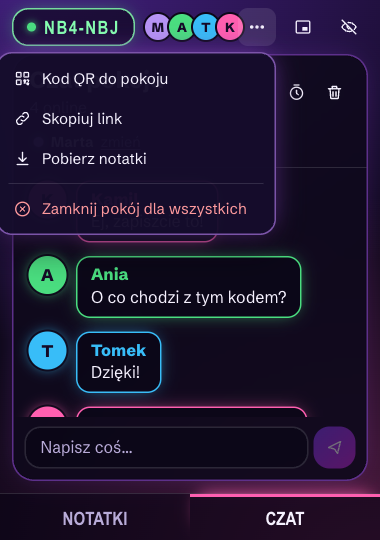
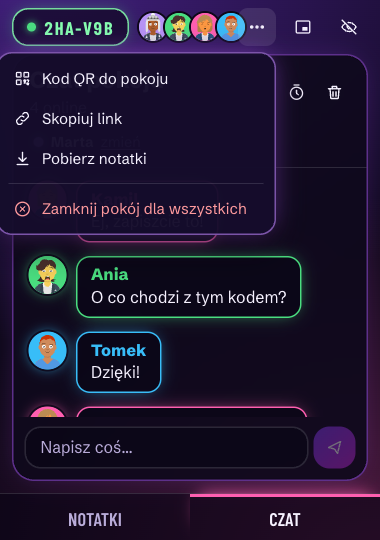
Czcionka Barlow Condensed i ilustrowane awatary (lokalnie, bez zewnętrznych zapytań)
- Barlow Condensed (OFL) przez @fontsource, tylko latin i latin-ext, wagi 500-800
- awatary: @dicebear/core@9 + styl Avataaars generowane w przeglądarce, osobny
  leniwy fragment, data URI w <img> (CSP bez zmian), inicjał jako zapas
- stałe ziarno twarzy (face) w tożsamości, przesyłane w awarenessie i wiadomościach
- nowe zrzuty ekranu, DESIGN.md, README PL/EN z podziękowaniami, CLAUDE.md, Prywatność

diff --git a/src/Room.tsx b/src/Room.tsx
@@ -14,10 +14,12 @@ import {
   IcBack, IcBullets, IcClose, IcCode, IcCodeBlock, IcDownload, IcHide, IcLink, IcMini, IcOrdered, IcQr, IcRedo, IcSend, IcStrike, IcTimer, IcTrash, IcUnderline, IcUndo,
 } from './icons'
 import { SideCards } from './Side'
+import { Avatar } from './Avatar'
 import { CloseRoomDialog, MenuItem, QrDialog, RoomMenu } from './RoomMenu'
 
 type Conn = { ydoc: Y.Doc; provider: WebsocketProvider }
-type ChatMsg = { id: string; by: number; name: string; color: string; text: string; t: number }
+type ChatMsg = { id: string; by: number; name: string; color: string; face?: string; text: string; t: number }
+type Peer = { id: number; name: string; color: string; face?: string }
 type Status = 'connecting' | 'connected' | 'disconnected'
 
 const EPHEMERAL_MS = 10 * 60_000
@@ -195,7 +197,7 @@ function Workspace(props: {
   const [dialog, setDialog] = useState<null | 'qr' | 'close'>(null)
   const [closing, setClosing] = useState(false)
   const [lost, setLost] = useState(false)
-  const [peers, setPeers] = useState<{ id: number; name: string; color: string }[]>([])
+  const [peers, setPeers] = useState<Peer[]>([])
   const [msgs, setMsgs] = useState<ChatMsg[]>([])
   const [ephemeral, setEphemeral] = useState(false)
   const [now, setNow] = useState(Date.now())
@@ -243,8 +245,8 @@ function Workspace(props: {
     provider.on('status', onStatus)
     const aw = provider.awareness
     const onAw = () => {
-      const list: { id: number; name: string; color: string }[] = []
-      aw.getStates().forEach((s, id) => s.user && list.push({ id, name: s.user.name, color: s.user.color }))
+      const list: Peer[] = []
+      aw.getStates().forEach((s, id) => s.user && list.push({ id, name: s.user.name, color: s.user.color, face: s.user.face }))
       list.sort((a, b) => (a.id === ydoc.clientID ? -1 : b.id === ydoc.clientID ? 1 : a.id - b.id))
       setPeers(list)
     }
@@ -381,7 +383,7 @@ function Workspace(props: {
   }, [editor, hidden, expired])
 
   function send(text: string) {
-    chat.push([{ id: crypto.randomUUID(), by: ydoc.clientID, name: identity.name, color: identity.color, text, t: Date.now() }])
+    chat.push([{ id: crypto.randomUUID(), by: ydoc.clientID, name: identity.name, color: identity.color, face: identity.face, text, t: Date.now() }])
     if (chat.length > MAX_MSGS) chat.delete(0, chat.length - MAX_MSGS)
   }
 
@@ -466,7 +468,7 @@ function Workspace(props: {
             <div className="avatars" aria-label={`W pokoju: ${peers.length}`}>
               {shown.map((p) => (
                 <span key={p.id} className="avatar" style={{ '--c': p.color } as CSSProperties} title={p.name}>
-                  {p.name.charAt(0).toUpperCase()}
+                  <Avatar seed={p.face ?? p.name} color={p.color} name={p.name} size={30} />
                 </span>
               ))}
               {more > 0 && <span className="avatar avatar-more">+{more}</span>}
@@ -685,7 +687,7 @@ function ChatList({ msgs, me }: { msgs: ChatMsg[]; me: number }) {
       {msgs.map((m) => (
         <div key={m.id} className={`msg ${m.by === me ? 'mine' : ''}`} style={{ '--c': m.color } as CSSProperties}>
           <span className="msg-avatar" aria-hidden="true">
-            {m.name.charAt(0).toUpperCase()}
+            <Avatar seed={m.face ?? m.name} color={m.color} name={m.name} size={38} />
           </span>
           <div className="msg-bubble">
             <span className="msg-name">{m.name}</span>

diff --git a/src/Avatar.tsx b/src/Avatar.tsx
@@ -1,0 +1,51 @@
+// Ilustrowany awatar generowany LOKALNIE w przeglądarce (DiceBear + styl Avataaars, autor: Pablo Stanley).
+// Zero zapytań do zewnętrznych serwisów: obraz powstaje z kodu pakietu i trafia do <img> jako data URI.
+import { useEffect, useState } from 'react'
+
+type Make = (seed: string, color: string) => string
+
+let maker: Promise<Make> | null = null
+const cache = new Map<string, string>()
+
+// biblioteka i styl ładują się leniwie, przy pierwszym awatarze (osobny fragment, poza głównym kodem pokoju)
+function load(): Promise<Make> {
+  maker ??= Promise.all([import('@dicebear/core'), import('@dicebear/avataaars')]).then(([core, style]) => (seed, color) =>
+    core
+      .createAvatar(style as any, { seed, backgroundColor: [color.replace('#', '')], radius: 50 })
+      .toDataUri(),
+  )
+  return maker
+}
+
+export function Avatar({ seed, color, name, size }: { seed: string; color: string; name: string; size: number }) {
+  const key = `${seed}|${color}`
+  const [uri, setUri] = useState(() => cache.get(key) ?? '')
+
+  useEffect(() => {
+    const hit = cache.get(key)
+    if (hit) {
+      setUri(hit)
+      return
+    }
+    let off = false
+    load()
+      .then((make) => {
+        const u = make(seed, color)
+        cache.set(key, u)
+        if (!off) setUri(u)
+      })
+      .catch(() => {})
+    return () => {
+      off = true
+    }
+  }, [key, seed, color])
+
+  // zanim obrazek się wygeneruje (albo gdy się nie uda), zostaje inicjał na kolorowym kółku
+  return uri ? (
+    <img className="face" src={uri} width={size} height={size} alt="" />
+  ) : (
+    <span className="face initial" aria-hidden="true">
+      {name.charAt(0).toUpperCase()}
+    </span>
+  )
+}

diff --git a/src/identity.ts b/src/identity.ts
@@ -2,7 +2,10 @@ const NAMES = ['Sowa', 'Lis', 'Jeż', 'Bóbr', 'Wydra', 'Kruk', 'Żuraw', 'Rys',
 // Jasne neony: ciemny tekst (#140a26) na nich ma kontrast >= 6,8 : 1, a one same na ciemnym panelu >= 7 : 1.
 const COLORS = ['#FF5FB0', '#4ADE80', '#38BDF8', '#FFA94D', '#B794F6', '#FACC15', '#FB7185', '#5EEAD4']
 
-export type Identity = { name: string; color: string }
+// `face` to ziarno awatara: stałe przez całą kartę, więc zmiana pseudonimu nie zmienia twarzy.
+export type Identity = { name: string; color: string; face: string }
+
+const newFace = () => Math.random().toString(36).slice(2, 10)
 
 const KEY = 'notas-tozsamosc'
 
@@ -16,10 +19,16 @@ export function loadIdentity(): Identity {
     const raw = sessionStorage.getItem(KEY)
     if (raw) {
       const v = JSON.parse(raw)
-      if (v?.name && v?.color) return v
+      if (v?.name && v?.color) {
+        if (!v.face) {
+          v.face = newFace()
+          saveIdentity(v)
+        }
+        return v
+      }
     }
   } catch {}
-  const id = { name: `${pick(NAMES)} ${Math.floor(Math.random() * 90) + 10}`, color: pick(COLORS) }
+  const id = { name: `${pick(NAMES)} ${Math.floor(Math.random() * 90) + 10}`, color: pick(COLORS), face: newFace() }
   saveIdentity(id)
   return id
 }

diff --git a/src/styles.css b/src/styles.css
@@ -248,10 +248,12 @@ a { color: var(--cyan-300); }
 .dot.disconnected { background: var(--danger); box-shadow: 0 0 8px var(--danger); }
 .avatars { display: flex; padding-left: 6px; min-width: 0; }
 .avatar {
-  width: 30px; height: 30px; border-radius: 50%; margin-left: -6px; border: 2px solid var(--night-900); background: var(--c, var(--violet-500));
+  width: 32px; height: 32px; border-radius: 50%; margin-left: -6px; border: 2px solid var(--night-900); background: var(--c, var(--violet-500)); overflow: hidden;
   display: grid; place-items: center; color: #140a26; font-size: 0.82rem; font-weight: 800; flex: none;
 }
 .avatar-more { background: #3a2c63; color: var(--ink); }
+.face { display: grid; place-items: center; width: 100%; height: 100%; border-radius: 50%; object-fit: cover; }
+.face.initial { font-weight: 800; }
 .offline { margin: 0 0.75rem; padding: 0.45rem 0.9rem; border-radius: var(--r-sm); background: var(--danger); color: #1c0508; font-size: 0.9rem; font-weight: 600; }
 .offline.expired { display: flex; align-items: center; gap: 0.75rem; flex-wrap: wrap; }
 .offline.expired span { flex: 1; min-width: 12rem; }

diff --git a/src/main.tsx b/src/main.tsx
@@ -1,6 +1,14 @@
 import { StrictMode } from 'react'
 import { createRoot } from 'react-dom/client'
 import '@fontsource-variable/schibsted-grotesk'
+import '@fontsource/barlow-condensed/latin-500.css'
+import '@fontsource/barlow-condensed/latin-ext-500.css'
+import '@fontsource/barlow-condensed/latin-600.css'
+import '@fontsource/barlow-condensed/latin-ext-600.css'
+import '@fontsource/barlow-condensed/latin-700.css'
+import '@fontsource/barlow-condensed/latin-ext-700.css'
+import '@fontsource/barlow-condensed/latin-800.css'
+import '@fontsource/barlow-condensed/latin-ext-800.css'
 import './styles.css'
 import App from './App'
 

diff --git a/src/Privacy.tsx b/src/Privacy.tsx
@@ -54,7 +54,7 @@ export default function Privacy() {
       <h2>Czego nie robimy</h2>
       <p>
         Nie sprzedajemy danych, nie profilujemy, nie wysyłamy niczego do stron trzecich. Czcionki są hostowane razem
-        z aplikacją.
+        z aplikacją, a awatary powstają w Twojej przeglądarce, bez zapytań do zewnętrznych serwisów.
       </p>
 
       <h2>Kontakt</h2>

diff --git a/DESIGN.md b/DESIGN.md
@@ -72,9 +72,9 @@ obwódki i imienia w dymku czatu (kolor na ciemnym panelu ≥ 7 : 1).
 
 ## 2. Typografia
 
-- **Nagłówki i etykiety:** `--font-display`, wąski krój w WERSALIKACH (`Barlow Condensed` → `Roboto Condensed` →
-  `Arial Narrow` → systemowy wąski). **Stan: Barlow Condensed nie jest jeszcze dołączony do projektu** (czeka na zgodę
-  na pobranie); do tego czasu działa systemowy krój wąski.
+- **Nagłówki i etykiety:** `--font-display`, wąski krój w WERSALIKACH: **Barlow Condensed** (wagi 500–800, podzbiory
+  `latin` i `latin-ext`, licencja OFL, hostowany lokalnie przez `@fontsource`), a awaryjnie `Roboto Condensed` →
+  `Arial Narrow` → systemowy wąski. Importy w `src/main.tsx`; nie dodawaj innych podzbiorów ani wag bez potrzeby.
 - **Tekst, czat, notatki:** Schibsted Grotesk (hostowany lokalnie, `latin-ext`).
 - **Kod:** `--font-mono` (systemowy).
 - **Logo:** Schibsted Grotesk 800 kursywą, gradient `#FFF → #B8F3FF → #CFB0FF → #F0A1FF` w tekście
@@ -121,6 +121,10 @@ obwódki i imienia w dymku czatu (kolor na ciemnym panelu ≥ 7 : 1).
 - **Edytor:** ciemny panel; `mark` limonkowy, kod w tekście i bloki kodu zielone na prawie czarnym, punktory różowe.
 - **Czat:** nagłówek „Czat pokoju” + liczba osób online; wiadomość = awatar (inicjał) + dymek z obwódką i poświatą
   w kolorze osoby, imię wewnątrz dymka. Własne wiadomości mają przy imieniu „(Ty)”.
+- **Awatary:** ilustrowane twarze (DiceBear, styl Avataaars, autor Pablo Stanley), generowane **lokalnie w przeglądarce**
+  (`src/Avatar.tsx`, osobny leniwy fragment), z tłem w kolorze osoby. Ziarno to `face` z tożsamości (stałe w karcie, więc
+  zmiana pseudonimu nie zmienia twarzy). Do chwili wygenerowania, albo gdy się nie uda, jest inicjał na kolorowym kółku.
+  Obraz trafia do `<img>` jako data URI (CSP: `img-src ... data:`), zero zapytań do zewnętrznych serwisów.
 - **Etykieta kursora:** pigułka w kolorze osoby z ciemnym tekstem.
 - **QR:** gradient fioletowo-różowy (`#5B21B6 → #BE185D`) na **białej** karcie. Ciemne moduły na jasnym tle czytają
   się niezawodnie; odwrócony QR (jasny na ciemnym) nie jest czytany przez każdy skaner.
@@ -159,7 +163,8 @@ w pętli, parallax, migotanie, animacje przy przewijaniu.
 - ❌ Odwróconego (jasny na ciemnym) kodu QR.
 - ❌ Animowania `filter` i `box-shadow` w nieskończonej pętli.
 - ❌ Destrukcyjnej akcji bez okna potwierdzenia i możliwości pobrania notatek przed nią.
-- ❌ Zewnętrznych obrazów i czcionek pobieranych bez zgody (patrz „Typografia”).
+- ❌ Zewnętrznych obrazów i czcionek pobieranych bez zgody. Awatary i czcionki są **lokalne**; nie wolno przepiąć awatarów
+  na API DiceBear (zapytania do obcego serwisu łamią obietnicę prywatności).
 
 ---
 

diff --git a/README.pl.md b/README.pl.md
@@ -95,7 +95,7 @@ Pokazujesz ekran, wszyscy skanują. Kod jest fioletowo-różowy na białej karci
 - **Licznik nieprzeczytanych** na zakładce Czat, gdy okno jest wąskie
 
 ### Pseudonimy
-- **Losowy pseudonim** dla każdego (`Kruk 38`, `Wydra 12`), kolor i inicjał
+- **Losowy pseudonim** dla każdego (`Kruk 38`, `Wydra 12`), kolor i ilustrowany awatar generowany lokalnie w Twojej przeglądarce (bez zapytań do jakiegokolwiek serwisu z awatarami)
 - **Zmiana jednym kliknięciem** - pole przypomina, żeby nie używać imienia i nazwiska
 - **Nic nie jest zapamiętywane** - pseudonim żyje w karcie przeglądarki i razem z nią znika
 
@@ -130,7 +130,8 @@ Pokazujesz ekran, wszyscy skanują. Kod jest fioletowo-różowy na białej karci
 | Serwer | Node.js 22, zwykły `http` + [`ws`](https://github.com/websockets/ws), bez frameworka |
 | Kod QR | [`qrcode`](https://github.com/soldair/node-qrcode) (SVG, ładowany dopiero przy otwarciu okna) |
 | Style | Ręcznie pisany CSS - tokeny, container queries, bez frameworka |
-| Fonty | Schibsted Grotesk (hostowany lokalnie przez Fontsource) |
+| Fonty | Schibsted Grotesk i Barlow Condensed (hostowane lokalnie przez Fontsource) |
+| Awatary | [DiceBear](https://www.dicebear.com/) (rdzeń) + styl Avataaars, generowane lokalnie w przeglądarce |
 | Testy | `node:test` (20 testów, każdy zestaw uruchamia prawdziwy proces serwera) |
 | CI | GitHub Actions (typy + testy) |
 | Wdrożenie | Docker; Render Blueprint (`render.yaml`) albo Fly.io (`fly.toml`) |
@@ -243,6 +244,11 @@ serwera** na wolnym porcie i rozmawia z nim przez HTTP i WebSockety, więc testo
 |---|---|
 | **iOS** | Safari → Udostępnij (↑) → *Do ekranu początkowego* |
 | **Android** | Chrome → Menu (⋮) → *Zainstaluj aplikację* |
+
+## Podziękowania
+
+- Awatary: [DiceBear](https://www.dicebear.com/) (MIT) ze stylem *Avataaars* autorstwa [Pablo Stanleya](https://avataaars.com/) (wolny do użytku osobistego i komercyjnego).
+- Czcionka: [Barlow Condensed](https://github.com/jpt/barlow) Jeremy'ego Tribby'ego (SIL Open Font License 1.1) oraz Schibsted Grotesk (OFL), obie serwowane przez samą aplikację.
 
 ## Licencja
 

diff --git a/README.md b/README.md
@@ -99,7 +99,7 @@ Show the screen, everyone scans. The code is violet-to-pink on a white card, so 
 - **Unread counter** on the Chat tab when the window is narrow
 
 ### Nicknames
-- **A random nickname** for every person (`Kruk 38`, `Wydra 12`), a colour and an initial
+- **A random nickname** for every person (`Kruk 38`, `Wydra 12`), a colour and an illustrated avatar generated locally in your browser (no request to any avatar service)
 - **Change it in one click** - the field reminds you not to use your real name
 - **Nothing remembered** - the nickname lives in that browser tab and goes with it
 
@@ -134,7 +134,8 @@ Show the screen, everyone scans. The code is violet-to-pink on a white card, so 
 | Server | Node.js 22, plain `http` + [`ws`](https://github.com/websockets/ws), no framework |
 | QR code | [`qrcode`](https://github.com/soldair/node-qrcode) (SVG, loaded only when the dialog opens) |
 | Styling | Hand-written CSS - tokens, container queries, no framework |
-| Fonts | Schibsted Grotesk (self-hosted via Fontsource) |
+| Fonts | Schibsted Grotesk and Barlow Condensed (self-hosted via Fontsource) |
+| Avatars | [DiceBear](https://www.dicebear.com/) core + the Avataaars style, generated locally in the browser |
 | Tests | `node:test` (20 tests, each suite runs a real server process) |
 | CI | GitHub Actions (type check + tests) |
 | Deploy | Docker; Render Blueprint (`render.yaml`) or Fly.io (`fly.toml`) |
@@ -247,6 +248,11 @@ process** on a free port and talks to it over HTTP and WebSockets, so what is te
 |---|---|
 | **iOS** | Safari → Share (↑) → *Add to Home Screen* |
 | **Android** | Chrome → Menu (⋮) → *Install app* |
+
+## Credits
+
+- Avatars: [DiceBear](https://www.dicebear.com/) (MIT) with the *Avataaars* style by [Pablo Stanley](https://avataaars.com/) (free for personal and commercial use).
+- Font: [Barlow Condensed](https://github.com/jpt/barlow) by Jeremy Tribby (SIL Open Font License 1.1), and Schibsted Grotesk (OFL), both served from the app itself.
 
 ## License
 

diff --git a/CLAUDE.md b/CLAUDE.md
@@ -90,7 +90,6 @@ w `.claude/launch.json` folderu nadrzędnego.
 - Podpięcie domeny **notas.pl** (Render → Settings → Custom Domains)
 - Test w Firefoksie i Safari (tam okno mini to zwykłe okienko)
 - Testy interfejsu (dziś tylko serwer ma testy automatyczne)
-- Zgoda na pobranie czcionki Barlow Condensed (`@fontsource`) i ilustrowanych awatarów do czatu (DiceBear) — makiety je mają, kod działa bez nich
 - Wersja angielska interfejsu (pozostałe projekty mają PL/EN)
 - Wzory matematyczne (KaTeX), tabele, bloki kodu
 
@@ -109,6 +108,15 @@ Wygląd wg trzech makiet (patrz `DESIGN.md`). Rzeczy, które łatwo zepsuć:
 - **Poświata logo animuje `opacity` pseudo-elementu** (`::before` z `content: attr(data-text)`), nie `filter`.
 - **Po przebudowie (`npm run build`) otwarta karta ma stare nazwy plików** i leniwy fragment `Room-*.js` znika
   („Failed to fetch dynamically imported module”). To nie błąd aplikacji: odśwież kartę.
+
+### Awatary i czcionka (dołączone 12.11.2026, za zgodą Jakuba)
+
+- **Awatary: DiceBear `@dicebear/core@9` + `@dicebear/avataaars@9`, generowane lokalnie** (`src/Avatar.tsx`, leniwy import).
+  **Nigdy nie przełączaj na API DiceBear** (`api.dicebear.com`): obcy serwis w każdym awatarze łamie zasadę prywatności i CSP.
+  Core musi być w wersji 9, bo styl `@dicebear/avataaars@9` ma peer `^9`; wersja 10 core go nie obsłuży.
+- Ziarno twarzy to `face` w tożsamości (sessionStorage), przesyłane w awarenessie i w każdej wiadomości czatu
+  (`ChatMsg.face`). Starsze wiadomości i symulowani klienci bez `face` używają imienia jako ziarna.
+- **Czcionka Barlow Condensed**: tylko `latin` i `latin-ext` w wagach 500–800 (`src/main.tsx`). Polskie znaki są w `latin-ext`.
 
 ### Testowanie z symulowanymi osobami
 
